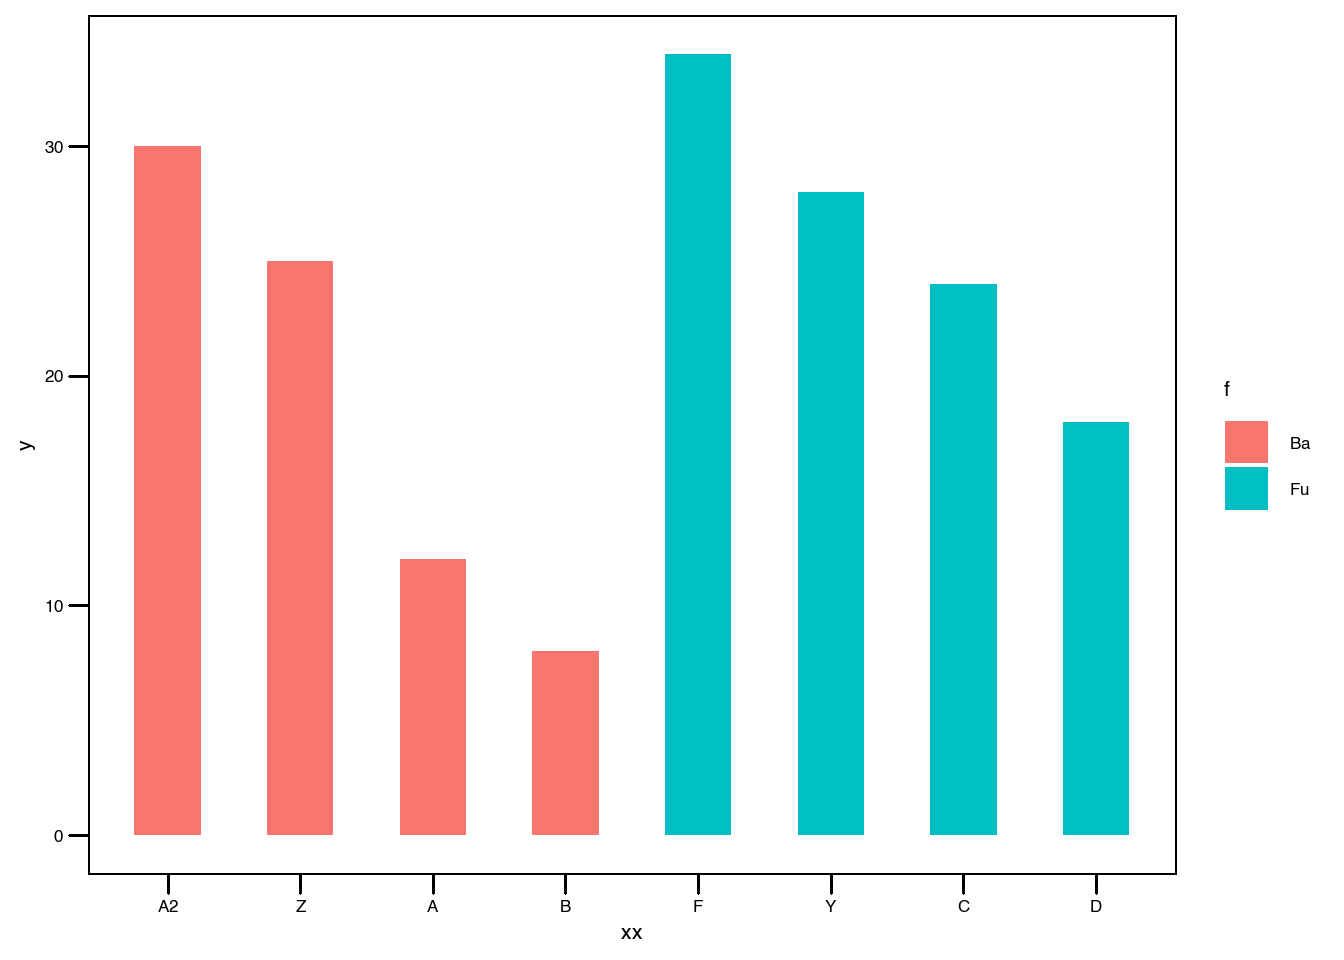
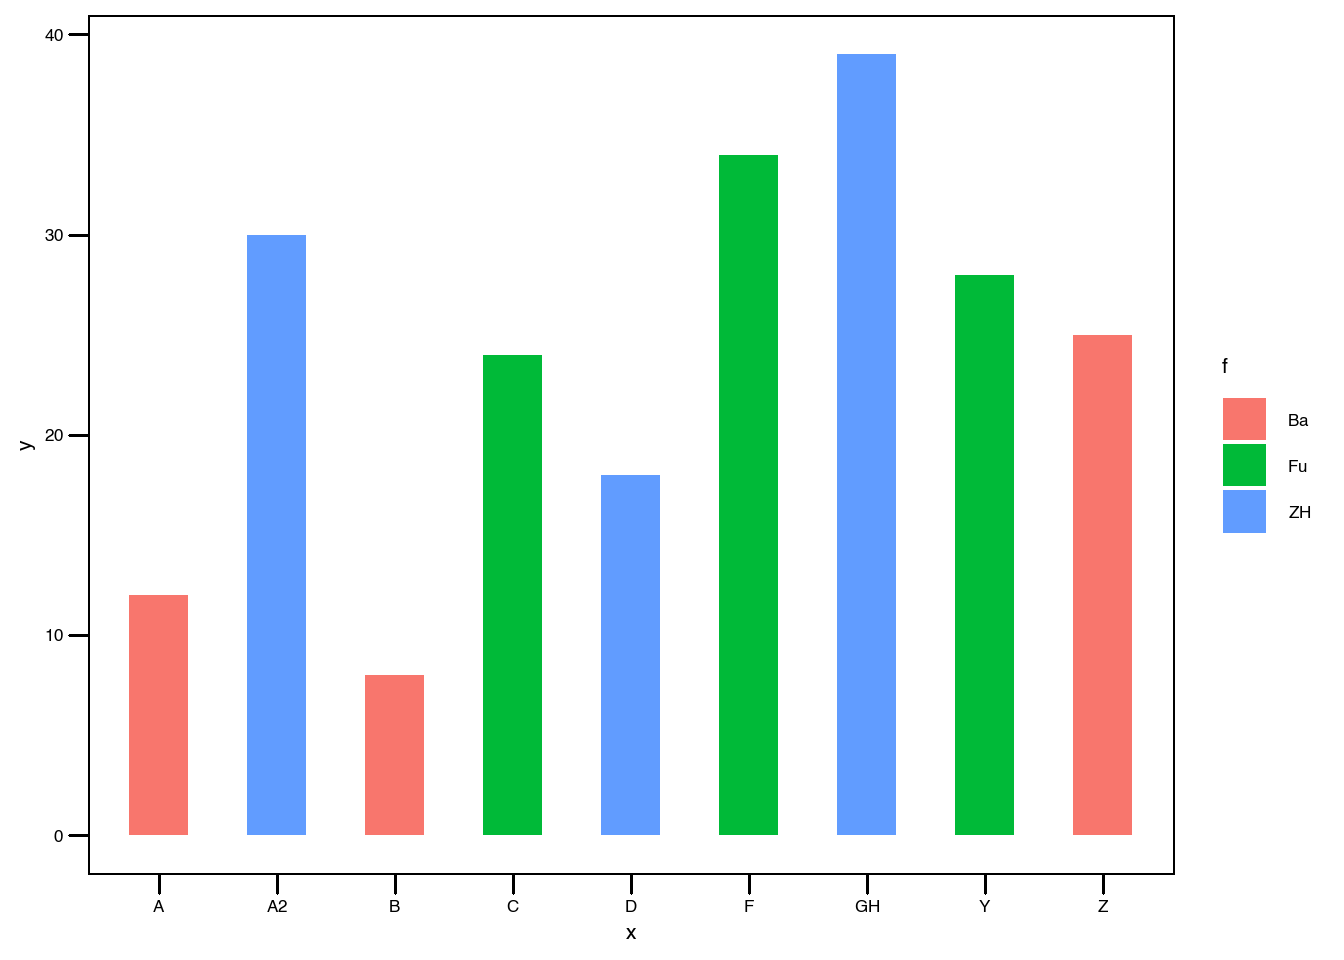
Add files via upload

diff --git a/ggplot2-绘图问题解答.html b/ggplot2-绘图问题解答.html
@@ -260,20 +260,18 @@ code span.wa { color: #60a0b0; font-weight: bold; font-style: italic; } /* Warni
 <span id="cb35-3"><a href="ggplot2-绘图问题解答.html#cb35-3" aria-hidden="true" tabindex="-1"></a>  <span class="at">y =</span> <span class="fu">c</span>(<span class="dv">12</span>,<span class="dv">30</span>,<span class="dv">24</span>,<span class="dv">8</span>,<span class="dv">18</span>,<span class="dv">25</span>,<span class="dv">34</span>,<span class="dv">28</span>,<span class="dv">39</span>),</span>
 <span id="cb35-4"><a href="ggplot2-绘图问题解答.html#cb35-4" aria-hidden="true" tabindex="-1"></a>  <span class="at">f =</span> <span class="fu">c</span>(<span class="st">&#39;Ba&#39;</span>,<span class="st">&#39;ZH&#39;</span>,<span class="st">&#39;Fu&#39;</span>,<span class="st">&#39;Ba&#39;</span>,<span class="st">&#39;ZH&#39;</span>,<span class="st">&#39;Ba&#39;</span>,<span class="st">&#39;Fu&#39;</span>,<span class="st">&#39;Fu&#39;</span>,<span class="st">&#39;ZH&#39;</span>)</span>
 <span id="cb35-5"><a href="ggplot2-绘图问题解答.html#cb35-5" aria-hidden="true" tabindex="-1"></a>)</span>
-<span id="cb35-6"><a href="ggplot2-绘图问题解答.html#cb35-6" aria-hidden="true" tabindex="-1"></a><span class="fu">ggplot</span>(dd,<span class="fu">aes</span>(xx,y,<span class="at">group =</span> f, <span class="at">fill =</span> f)) <span class="sc">+</span></span>
+<span id="cb35-6"><a href="ggplot2-绘图问题解答.html#cb35-6" aria-hidden="true" tabindex="-1"></a><span class="fu">ggplot</span>(d1,<span class="fu">aes</span>(x,y,<span class="at">group =</span> f, <span class="at">fill =</span> f)) <span class="sc">+</span></span>
 <span id="cb35-7"><a href="ggplot2-绘图问题解答.html#cb35-7" aria-hidden="true" tabindex="-1"></a>  <span class="fu">geom_col</span>(<span class="at">width =</span> <span class="fl">0.5</span>) </span></code></pre></div>
 <p><img src="_main_files/figure-html/unnamed-chunk-24-1.png" width="672" /></p>
 <p>紧接着是实现最终效果绘制：</p>
 <div class="sourceCode" id="cb36"><pre class="sourceCode r"><code class="sourceCode r"><span id="cb36-1"><a href="ggplot2-绘图问题解答.html#cb36-1" aria-hidden="true" tabindex="-1"></a><span class="fu">arrange</span>(d1,f,<span class="sc">-</span>y)<span class="sc">$</span>x <span class="ot">-&gt;</span> g1</span>
 <span id="cb36-2"><a href="ggplot2-绘图问题解答.html#cb36-2" aria-hidden="true" tabindex="-1"></a>d1 <span class="sc">%&gt;%</span> </span>
 <span id="cb36-3"><a href="ggplot2-绘图问题解答.html#cb36-3" aria-hidden="true" tabindex="-1"></a>  <span class="fu">mutate</span>(<span class="at">x1 =</span> <span class="fu">fct_relevel</span>(x,g1)) <span class="ot">-&gt;</span> d6</span>
-<span id="cb36-4"><a href="ggplot2-绘图问题解答.html#cb36-4" aria-hidden="true" tabindex="-1"></a><span class="fu">ggplot</span>(dd,<span class="fu">aes</span>(xx,y,<span class="at">group =</span> f, <span class="at">fill =</span> f)) <span class="sc">+</span></span>
+<span id="cb36-4"><a href="ggplot2-绘图问题解答.html#cb36-4" aria-hidden="true" tabindex="-1"></a><span class="fu">ggplot</span>(d6,<span class="fu">aes</span>(x1,y,<span class="at">group =</span> f, <span class="at">fill =</span> f)) <span class="sc">+</span></span>
 <span id="cb36-5"><a href="ggplot2-绘图问题解答.html#cb36-5" aria-hidden="true" tabindex="-1"></a>  <span class="fu">geom_col</span>(<span class="at">width =</span> <span class="fl">0.5</span>) <span class="sc">+</span></span>
-<span id="cb36-6"><a href="ggplot2-绘图问题解答.html#cb36-6" aria-hidden="true" tabindex="-1"></a>  <span class="fu">geom_vline</span>(<span class="at">xintercept  =</span> <span class="fl">4.5</span>,</span>
-<span id="cb36-7"><a href="ggplot2-绘图问题解答.html#cb36-7" aria-hidden="true" tabindex="-1"></a>             <span class="at">linetype =</span> <span class="dv">2</span>) <span class="sc">+</span></span>
-<span id="cb36-8"><a href="ggplot2-绘图问题解答.html#cb36-8" aria-hidden="true" tabindex="-1"></a>  <span class="fu">labs</span>(<span class="at">fill =</span> <span class="st">&#39;&#39;</span>) <span class="sc">+</span></span>
-<span id="cb36-9"><a href="ggplot2-绘图问题解答.html#cb36-9" aria-hidden="true" tabindex="-1"></a>  <span class="fu">theme_bw</span>() <span class="sc">+</span></span>
-<span id="cb36-10"><a href="ggplot2-绘图问题解答.html#cb36-10" aria-hidden="true" tabindex="-1"></a>  <span class="fu">theme</span>(<span class="at">legend.position =</span> <span class="fu">c</span>(<span class="fl">0.2</span>,<span class="fl">0.88</span>))</span></code></pre></div>
+<span id="cb36-6"><a href="ggplot2-绘图问题解答.html#cb36-6" aria-hidden="true" tabindex="-1"></a>  <span class="fu">labs</span>(<span class="at">fill =</span> <span class="st">&#39;&#39;</span>) <span class="sc">+</span></span>
+<span id="cb36-7"><a href="ggplot2-绘图问题解答.html#cb36-7" aria-hidden="true" tabindex="-1"></a>  <span class="fu">theme_bw</span>() <span class="sc">+</span></span>
+<span id="cb36-8"><a href="ggplot2-绘图问题解答.html#cb36-8" aria-hidden="true" tabindex="-1"></a>  <span class="fu">theme</span>(<span class="at">legend.position =</span> <span class="fu">c</span>(<span class="fl">0.2</span>,<span class="fl">0.85</span>))</span></code></pre></div>
 <p><img src="_main_files/figure-html/unnamed-chunk-25-1.png" width="672" /></p>
 
 </div>
